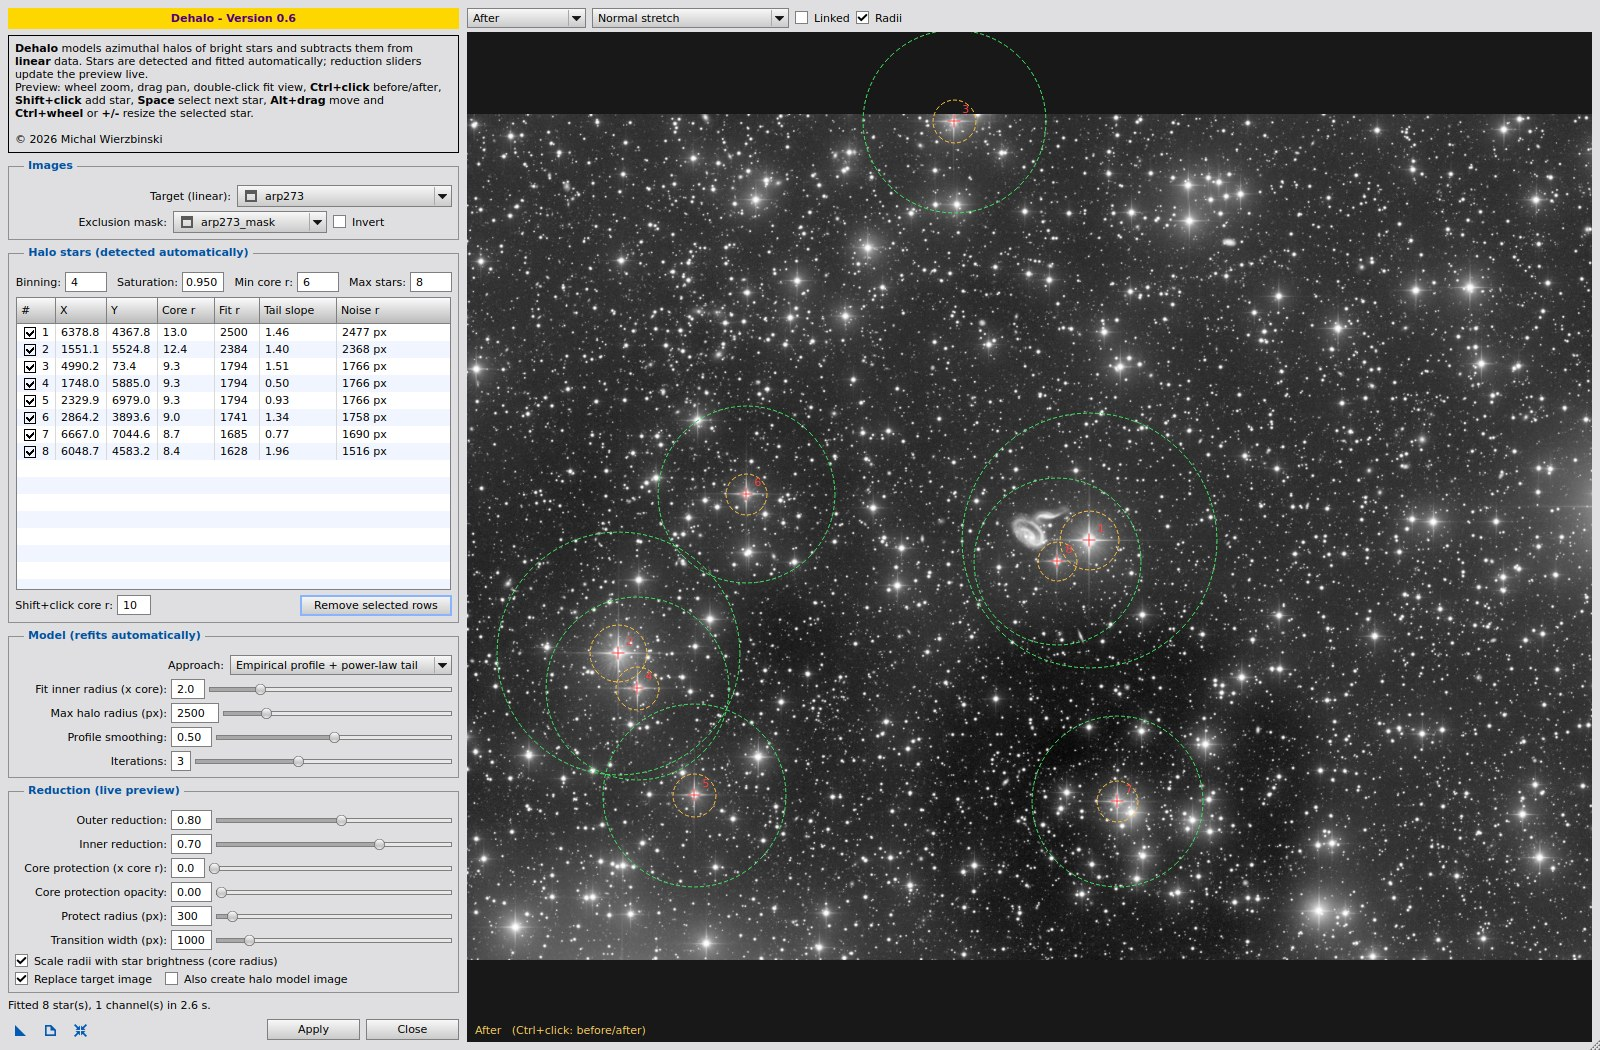
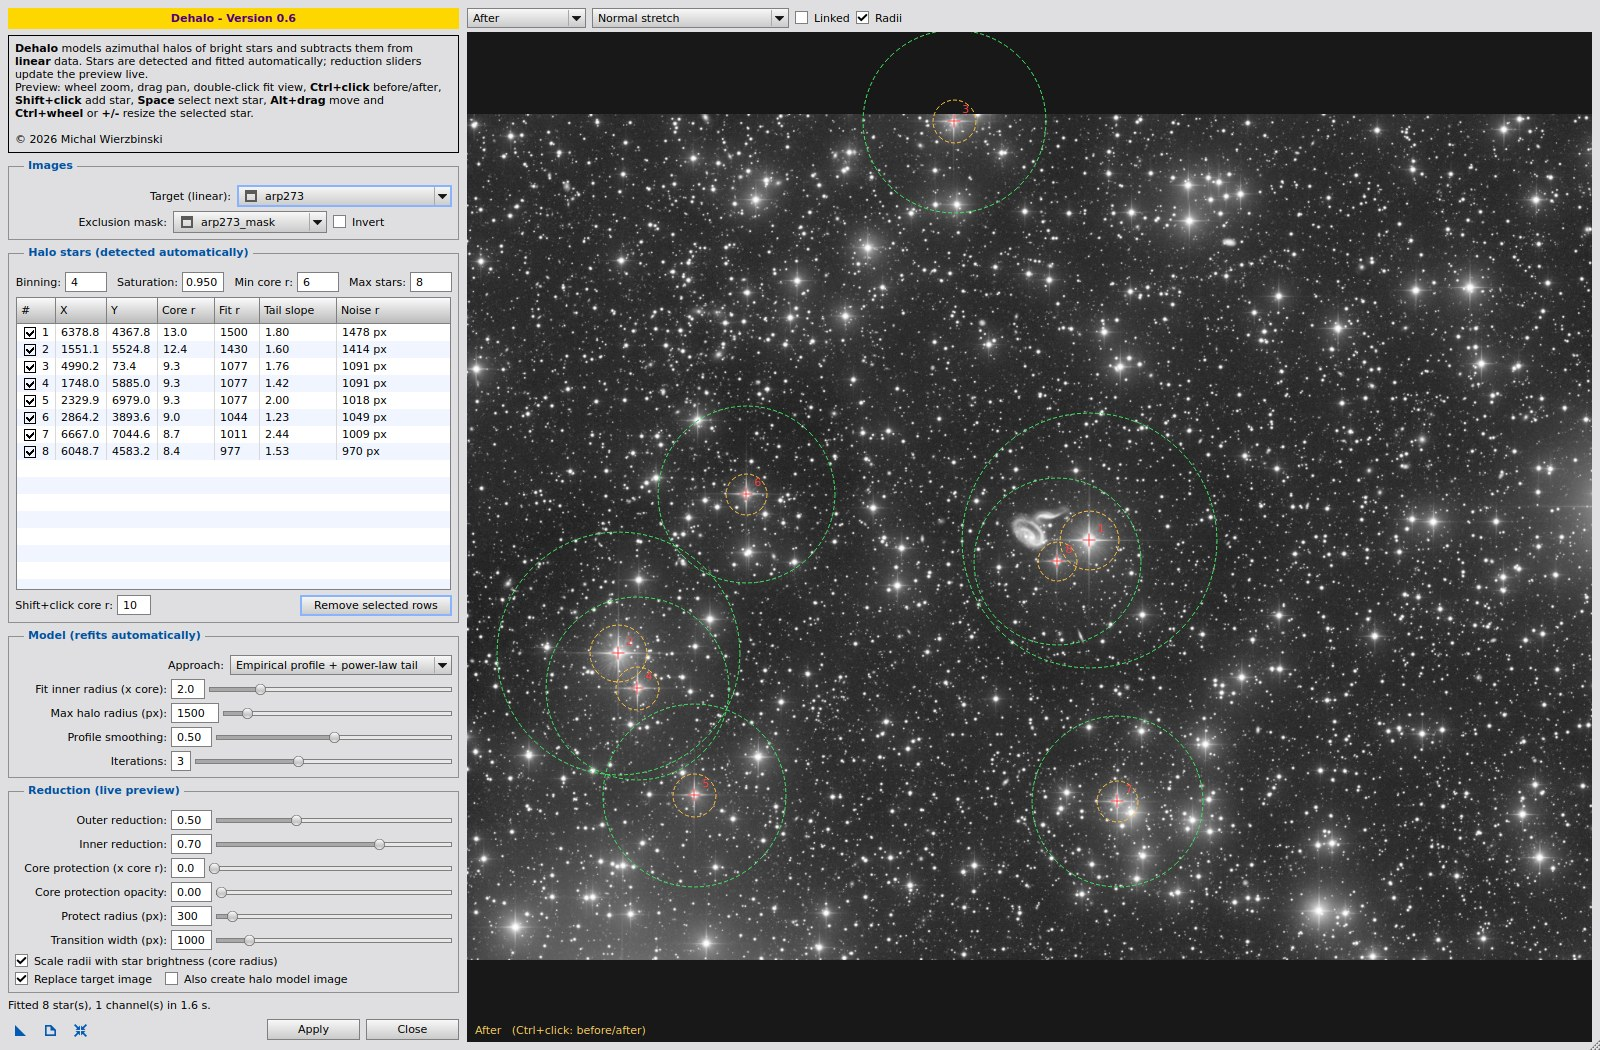
docs(dehalo): Arp 273 without dark areas, explain master artifacts
Arp 273: outer reduction 0.5 and max halo radius 1500 px (ring medians
show no over-subtraction), no core protection, bottom-centre crop.
NGC 3310 / quick start / troubleshooting: one-sided dark patches near
saturated stars are stacking/normalization artifacts, not Dehalo.

diff --git a/docs/dehalo/examples/arp-273.md b/docs/dehalo/examples/arp-273.md
@@ -11,15 +11,28 @@ Arp 273 is in a dense star field in Andromeda. The brightest star of the field i
 
 ## Problem with the default settings
 
-With the default settings, the preview shows **dark areas** around the group of bright stars on the left. The halos
-of these stars overlap, and in a dense field the outskirts of each profile contain the light of many faint stars. A
-model that extends to 5000 px with full outer reduction removes too much there.
+With the default settings, the preview shows **dark areas** around the group of bright stars on the left and around
+the stars at the bottom centre. In a dense field, the outskirts of each profile contain the light of many faint
+stars, so the fitted tail is too flat (tail slopes below 1 in the star table) and the model stays too high far
+from the star. A model that extends far with a high outer reduction removes too much there.
+
+A first try with Max halo radius 2500 px and Outer reduction 0.80 still made dark areas at the bottom centre and on
+the left. To find the right values, we measured the background median in rings around each star, relative to the
+median of the image (units of 10<sup>-5</sup>; negative = darker than the field):
+
+| Ring 900&ndash;1800 px | Before | Outer 0.80, Max halo r 2500 | Outer 0.50, Max halo r 2500 | **Outer 0.50, Max halo r 1500** |
+|---|---|---|---|---|
+| Star 7 (bottom centre) | &minus;0.8 | &minus;2.7 | &minus;1.7 | **&minus;0.5** |
+| Star 2 (left) | +1.1 | &minus;0.5 | 0.0 | **&minus;0.1** |
+| Star 6 (left) | &minus;0.2 | &minus;0.6 | &minus;0.3 | **&minus;0.5** |
+
+Only the last setting has no ring that is clearly darker than before Dehalo.
 
 Changes:
 
 | Problem | Change |
 |---|---|
-| Over-subtraction far from the stars. | **Max halo radius 2500 px**, **Outer reduction 0.80** |
+| Over-subtraction far from the stars. | **Max halo radius 1500 px**, **Outer reduction 0.50** |
 | The bright inner halo stays. | **Inner reduction 0.70**, **Protect radius 300 px**, **Transition 1000 px** |
 | The galaxy pair is inside the rings of star 1. | Exclusion mask on the galaxies |
 
@@ -38,9 +51,10 @@ iif(((x()-5840)/650)^2+((y()-4240)/380)^2<1,1,0)
 |---|---|---|
 | Images | Exclusion mask | **galaxy pair ellipse** |
 | Halo stars | Binning / Saturation / Min core r / Max stars | 4 / 0.95 / 6 / 8 |
-| Model | Approach / Fit inner radius / Max halo radius | Empirical / 2.0 / **2500 px** |
+| Model | Approach / Fit inner radius / Max halo radius | Empirical / 2.0 / **1500 px** |
 | Model | Profile smoothing / Iterations | 0.50 / 3 |
-| Reduction | Outer / Inner reduction | **0.80** / **0.70** |
+| Reduction | Outer / Inner reduction | **0.50** / **0.70** |
+| Reduction | Core protection / opacity | 0 / 0 (off) |
 | Reduction | Protect radius / Transition width | **300 px** / **1000 px** |
 | Reduction | Scale radii with star brightness | on |
 
@@ -70,12 +84,22 @@ The group of bright stars on the left (2600 &times; 2900 px crop):
 </img-comparison-slider>
 <div class="cmp-labels"><span>Before</span><span>After</span></div>
 
+The stars at the bottom centre (2600 &times; 2600 px crop):
+
+<img-comparison-slider>
+  <img slot="first" src="../../assets/dehalo/arp-273/crop2_before.jpg" alt="Bottom centre stars before Dehalo">
+  <img slot="second" src="../../assets/dehalo/arp-273/crop2_after.jpg" alt="Bottom centre stars after Dehalo">
+</img-comparison-slider>
+<div class="cmp-labels"><span>Before</span><span>After</span></div>
+
 ![Removed halo of Arp 273](../../assets/dehalo/arp-273/model.jpg)
 
 ## What to look at
 
-- No dark areas around the star group: the smaller Max halo radius and the outer reduction below 1 keep the model
-  inside the real halos.
+- No dark areas around the star groups: the small Max halo radius and the outer reduction of 0.50 keep the model
+  inside the real halos. In a dense field, prefer a lower outer reduction to a dark background.
+- No core protection. Star 1, next to the galaxies, keeps a natural glow without it; core protection would add a
+  brighter zone with a visible edge around it.
 - The faint outer parts of the galaxies keep their light; they are inside the mask.
 - Use the **hard stretch** in the preview to check a dense field. Over-subtraction shows as dark areas between the
   stars.

diff --git a/docs/dehalo/examples/ngc-3310.md b/docs/dehalo/examples/ngc-3310.md
@@ -46,6 +46,17 @@ HD 92095 at full resolution (3600 &times; 2600 px crop):
 </img-comparison-slider>
 <div class="cmp-labels"><span>Before</span><span>After</span></div>
 
+!!! note "Dark patch and marks near HD 92095"
+    After Dehalo, a dark patch is visible below and to the left of HD 92095, and there are dark marks and radial
+    streaks close to its core. These are most likely stacking and normalization artifacts in the master, not
+    artifacts of Dehalo. Pixel rejection and normalization work differently near a saturated star, so the area
+    around the core is not uniform in the integrated master. In the original image, the bright halo hides these
+    structures; when the halo is removed, they become visible.
+
+    The removed halo (below) is smooth and the same in all directions around the star. Subtracting it cannot make
+    a dark patch on one side of the star only, so a one-sided structure must be in the data before Dehalo. To
+    check this in PixInsight, look at the original master around the star with a hard STF stretch.
+
 The second star (1800 &times; 1300 px crop):
 
 <img-comparison-slider>
@@ -64,5 +75,8 @@ The removed halo (the `_halomodel` image, stretched):
   the two large halos are measured correctly, but their own halos are not subtracted.
 - **High inner reduction.** With 0.82, most of the bright inner halo of HD 92095 is removed. The diffraction spikes
   and the star core stay; they are not part of the azimuthal model.
+- **Artifacts in the master.** The dark patch and the marks near HD 92095 are in the data (see the note above).
+  Dehalo makes them visible because it removes the halo that covered them. Fix them in the integration (for
+  example other rejection or normalization settings) or with retouching tools after Dehalo.
 - **Large Max halo radius.** The halo of HD 92095 reaches over most of the field. With the default 5000 px, the
   outer part of the halo would stay.

diff --git a/docs/dehalo/troubleshooting.md b/docs/dehalo/troubleshooting.md
@@ -28,11 +28,22 @@ A stacking artefact, a bloom or a neighbour star merged into the core can move t
 The model removes more than the halo.
 
 - Lower the **Outer reduction** or the **Inner reduction**.
-- In a dense star field, lower **Max halo radius** ([Arp 273](examples/arp-273.md)).
+- In a dense star field, lower **Max halo radius** and the **Outer reduction** (about 0.5)
+  ([Arp 273](examples/arp-273.md)).
 - A galaxy or a nebula inside the halo makes the profile too bright. Use an **Exclusion mask**
   ([Sh2-82](examples/sh2-82.md)).
 - Small stars with a sharp edge: try **Core protection** 2 to 4 with **Core protection opacity** 0.3 to 0.7.
 - Check with **Removed halo** and the **hard stretch** in the preview.
+
+## A dark patch on one side of a star
+
+The halo model is smooth and the same in all directions around the star. It cannot make a dark area on one side of
+the star only. A one-sided patch, dark marks near the core or radial streaks are in the data: usually stacking and
+normalization artifacts near saturated stars, which the halo hid before. Look at the original image with a hard
+STF stretch to see them. Fix them in the integration or with retouching tools; changing the Dehalo settings does not
+remove them. See [NGC 3310](examples/ngc-3310.md).
+
+A dark ring that goes all around the star is different: that is over-subtraction (see above).
 
 ## Too little is removed near the star
 

diff --git a/docs/dehalo/quick-start.md b/docs/dehalo/quick-start.md
@@ -95,4 +95,6 @@ to run Dehalo there with the same settings, without the dialog.
 </img-comparison-slider>
 <div class="cmp-labels"><span>Before</span><span>After</span></div>
 
-More images and the second star are on the [NGC 3310 example page](examples/ngc-3310.md).
+The dark patch and the marks near the core of HD 92095 that become visible after Dehalo are most likely stacking
+and normalization artifacts of the master. The bright halo hid them before. See the
+[NGC 3310 example page](examples/ngc-3310.md) for the explanation, more images and the second star.
